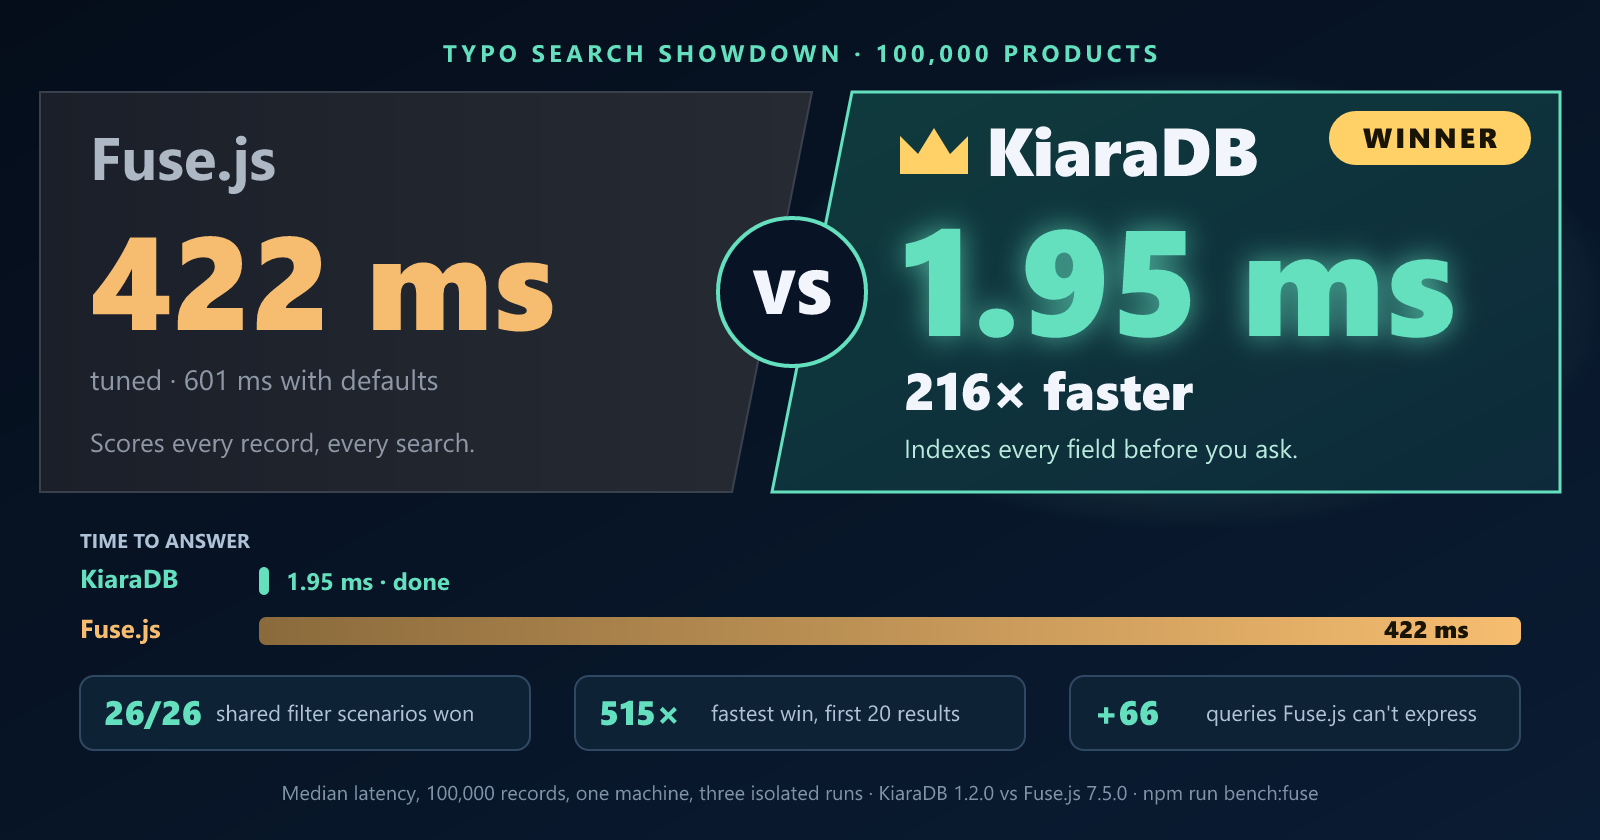
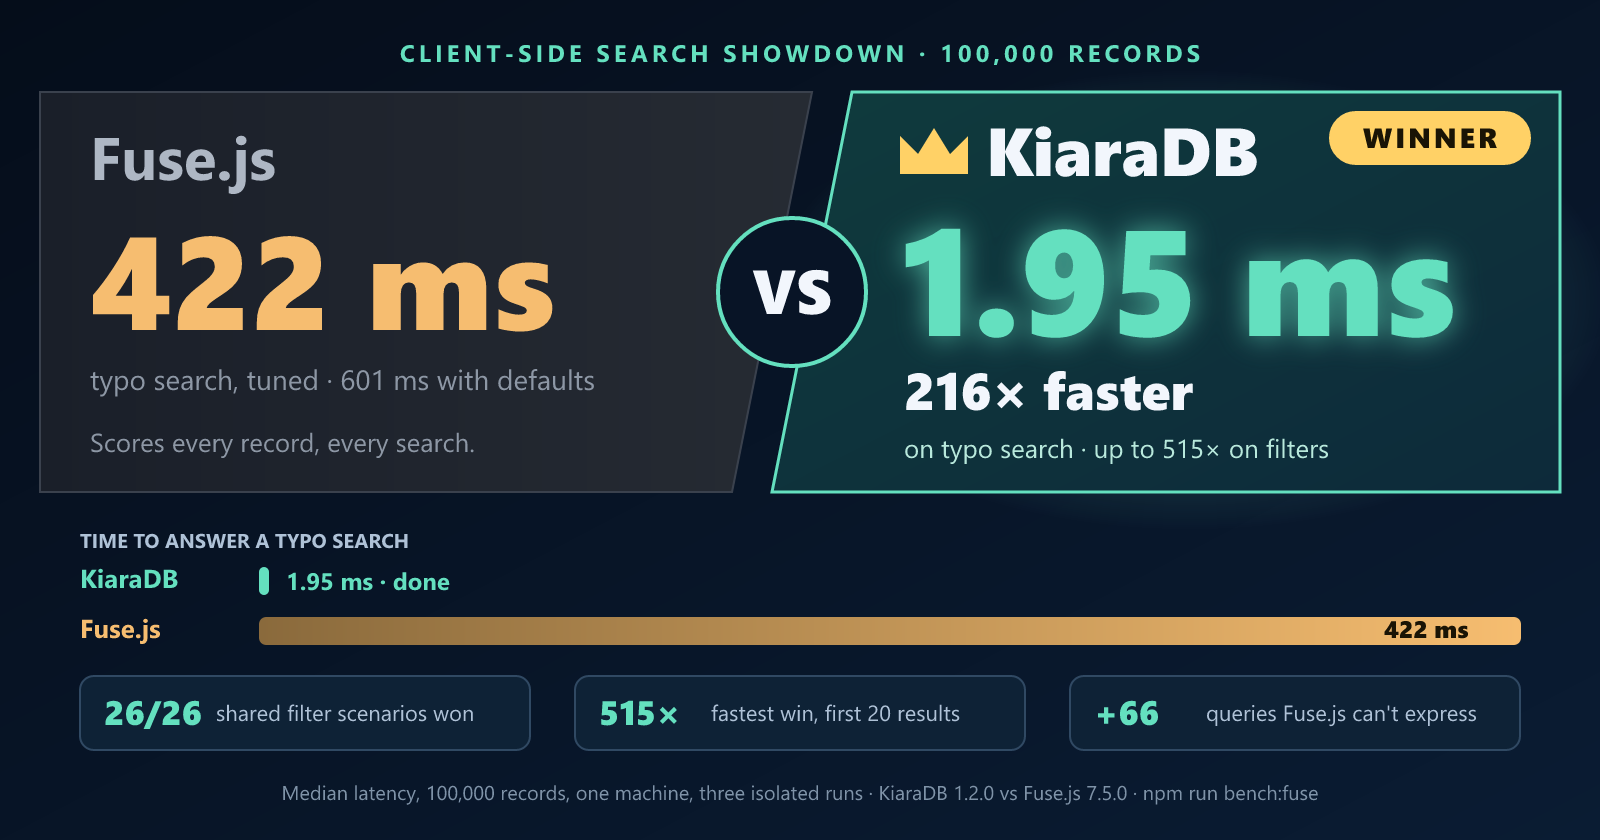
articles

diff --git a/articles/campaign/graphics.html b/articles/campaign/graphics.html
@@ -19,6 +19,6 @@ figcaption{padding:12px 0}a{color:#9caaff}@media(max-width:800px){main{grid-temp
 <figure><img src="../images/devto-filter-combinations.png" alt="A filter panel lists ten fields, with status, score, and tags selected. Users can pick 1,023 nonempty combinations of those fields, while the application maintains only ten per-field indexes."><figcaption>10 / Ten filter fields allow 1,023 combinations but need only ten per-field indexes &middot; <a href="../images/devto-filter-combinations.png">PNG</a> &middot; <a href="../images/devto-filter-combinations.svg">SVG</a></figcaption></figure>
 <figure><img src="../images/kiaradb-vs-fusejs.png" alt="Typo search over 100,000 products took 1.95 milliseconds in KiaraDB, 422 in tuned Fuse.js, and 601 in default Fuse.js. Building the indexes for the same 100,000 products took 4,286 milliseconds in KiaraDB and 266 in Fuse.js, which also used 110 MB of memory against KiaraDB's 489 MB."><figcaption>11 / KiaraDB and Fuse.js benchmark: query latency and build time &middot; <a href="../images/kiaradb-vs-fusejs.png">PNG</a> &middot; <a href="../images/kiaradb-vs-fusejs.svg">SVG</a></figcaption></figure>
 <figure><img src="../images/introducing-kiaradb.png" alt="Typo search over 100,000 products took 422 milliseconds in tuned Fuse.js and 1.95 in KiaraDB. KiaraDB answered first-20 lists 515 times faster, stemmed search 365 times, typo search 216 times, and date equality 163 times faster. It won all 26 filter queries both libraries can run and handled 66 more that Fuse.js cannot express."><figcaption>12 / Introducing KiaraDB: query speed against Fuse.js &middot; <a href="../images/introducing-kiaradb.png">PNG</a> &middot; <a href="../images/introducing-kiaradb.svg">SVG</a></figcaption></figure>
-<figure><img src="../images/kiaradb-vs-fusejs-hero.png" alt="A fight-card hero image. Typo search over 100,000 products: Fuse.js took 422 milliseconds tuned and 601 with defaults; KiaraDB, crowned the winner, took 1.95 milliseconds, 216 times faster. A race strip shows KiaraDB finishing almost instantly while Fuse.js runs the full length. KiaraDB won 26 of 26 shared filter scenarios, was up to 515 times faster, and ran 66 scenarios Fuse.js cannot express."><figcaption>13 / Search showdown: KiaraDB beats Fuse.js &middot; <a href="../images/kiaradb-vs-fusejs-hero.png">PNG</a> &middot; <a href="../images/kiaradb-vs-fusejs-hero.svg">SVG</a></figcaption></figure>
+<figure><img src="../images/kiaradb-vs-fusejs-hero.png" alt="A fight-card hero image for client-side search over 100,000 records. On typo search, Fuse.js took 422 milliseconds tuned and 601 with defaults; KiaraDB, crowned the winner, took 1.95 milliseconds, 216 times faster, and was up to 515 times faster on filters. A race strip shows KiaraDB finishing almost instantly while Fuse.js runs the full length. KiaraDB won 26 of 26 shared filter scenarios and ran 66 scenarios Fuse.js cannot express."><figcaption>13 / Client-side search showdown: KiaraDB beats Fuse.js &middot; <a href="../images/kiaradb-vs-fusejs-hero.png">PNG</a> &middot; <a href="../images/kiaradb-vs-fusejs-hero.svg">SVG</a></figcaption></figure>
 <figure><img src="../images/kiaradb-vs-fusejs-features.png" alt="Ticks and crosses for fourteen features. Both: exact matches across fields, typo-tolerant keyword search, and contains-any or contains-all matching on text lists. KiaraDB only: contains-any or contains-all on number lists, numeric comparisons, date and time ranges, stored ranges, missing-value filters, reported spelling corrections, a query interpreter that searches by value, and a Java edition. Fuse.js only: several typos and partial words per term, adding and removing records without a rebuild, and relevance scores with match highlighting."><figcaption>14 / Feature comparison chart: KiaraDB and Fuse.js &middot; <a href="../images/kiaradb-vs-fusejs-features.png">PNG</a> &middot; <a href="../images/kiaradb-vs-fusejs-features.svg">SVG</a></figcaption></figure>
 </main></html>

diff --git a/articles/campaign/publishing-guide.md b/articles/campaign/publishing-guide.md
@@ -171,17 +171,19 @@ Before publishing:
 
 ## Launch article: introducing KiaraDB
 
-[Meet KiaraDB: Typo Search 200× Faster Than Fuse.js. It's Not Even Close.](../introducing-kiaradb-vs-fusejs.md)
+[Meet KiaraDB: Client-Side Search Up to 500× Faster Than Fuse.js. It's Not Even Close.](../introducing-kiaradb-vs-fusejs.md)
 is the openly promotional companion to the neutral comparison. It introduces
 KiaraDB's strengths with one runnable snippet, then makes the bold claim on
 query speed only, and keeps a short "What the speed costs" section (build time,
 memory, snapshots, one-edit correction) so readers who open the report find no
-surprises.
+surprises. The title says "client-side search" rather than "typo search" to
+reach domain readers who filter structured data; "up to 500×" is the largest
+measured gain (515×), so do not shorten it to a flat "500× faster".
 
 - Same prerequisite: **commit and push** the benchmark before publishing.
 - Numbers cited, all at 100,000 records against the faster Fuse.js
-  configuration: first 20 active 0.15 vs 75 ms (515×), stemming 1.0 vs 363 ms
-  (365×), typo 1.95 vs 422 ms (216×; the "200×" title), date equality 0.28 vs
+  configuration: first 20 active 0.15 vs 75 ms (515×; the "up to 500×" title), stemming 1.0 vs 363 ms
+  (365×), typo 1.95 vs 422 ms (216×), date equality 0.28 vs
   45 ms (163×), three fields 0.37 vs 47 ms (128×), contains all of two tags 3.2 vs 40 ms (12×);
   26 of 26 shared exact scenarios won, 24-65× per-dataset geometric mean; 66 of
   92 scenarios Fuse.js cannot express; default Fuse.js 0 of 10 relevant on

diff --git a/articles/introducing-kiaradb-vs-fusejs.md b/articles/introducing-kiaradb-vs-fusejs.md
@@ -1,9 +1,9 @@
-# Meet KiaraDB: Typo Search 200× Faster Than Fuse.js. It's Not Even Close.
+# Meet KiaraDB: Client-Side Search Up to 500× Faster Than Fuse.js. It's Not Even Close.
 
-KiaraDB is an open-source, in-memory search engine for TypeScript and Java. Over 100,000 products, it answered a misspelled search in 1.95 ms. Fuse.js needed 422 ms.
+KiaraDB is an open-source, in-memory search engine for TypeScript and Java that runs in the browser or on the server. Over 100,000 products, it answered a misspelled search in 1.95 ms. Fuse.js, the popular fuzzy-search library, needed 422 ms.
 That was no outlier: KiaraDB won all 26 filter queries both libraries can run, by up to 515×, then handled 66 more that Fuse.js cannot express.
 
-![Typo search showdown over 100,000 products: Fuse.js 422 ms, KiaraDB 1.95 ms and the winner, 216 times faster. KiaraDB won 26 of 26 shared filter scenarios, was up to 515 times faster, and ran 66 queries Fuse.js cannot express.](./images/kiaradb-vs-fusejs-hero.png)
+![Client-side search showdown over 100,000 records: on typo search, Fuse.js took 422 ms and KiaraDB 1.95 ms, the winner at 216 times faster and up to 515 times faster on filters. KiaraDB won 26 of 26 shared filter scenarios and ran 66 queries Fuse.js cannot express.](./images/kiaradb-vs-fusejs-hero.png)
 
 *Written by KiaraDB's creator with AI assistance. Every number comes from an open benchmark you can rerun with one command.*
 

diff --git a/README.md b/README.md
@@ -113,7 +113,7 @@ DEV-oriented tutorial draft (review platform rules before publishing):
 
 Benchmark article for developer communities (review platform rules before publishing):
 - [KiaraDB vs Fuse.js: Faster Queries or Faster Builds? A Side-by-Side Benchmark](./articles/kiaradb-vs-fusejs-benchmark.md)
-- [Meet KiaraDB: Typo Search 200× Faster Than Fuse.js. It's Not Even Close.](./articles/introducing-kiaradb-vs-fusejs.md)
+- [Meet KiaraDB: Client-Side Search Up to 500× Faster Than Fuse.js. It's Not Even Close.](./articles/introducing-kiaradb-vs-fusejs.md)
 
 Campaign materials:
 - [Evidence-backed capability inventory](./articles/campaign/capability-inventory.md)
